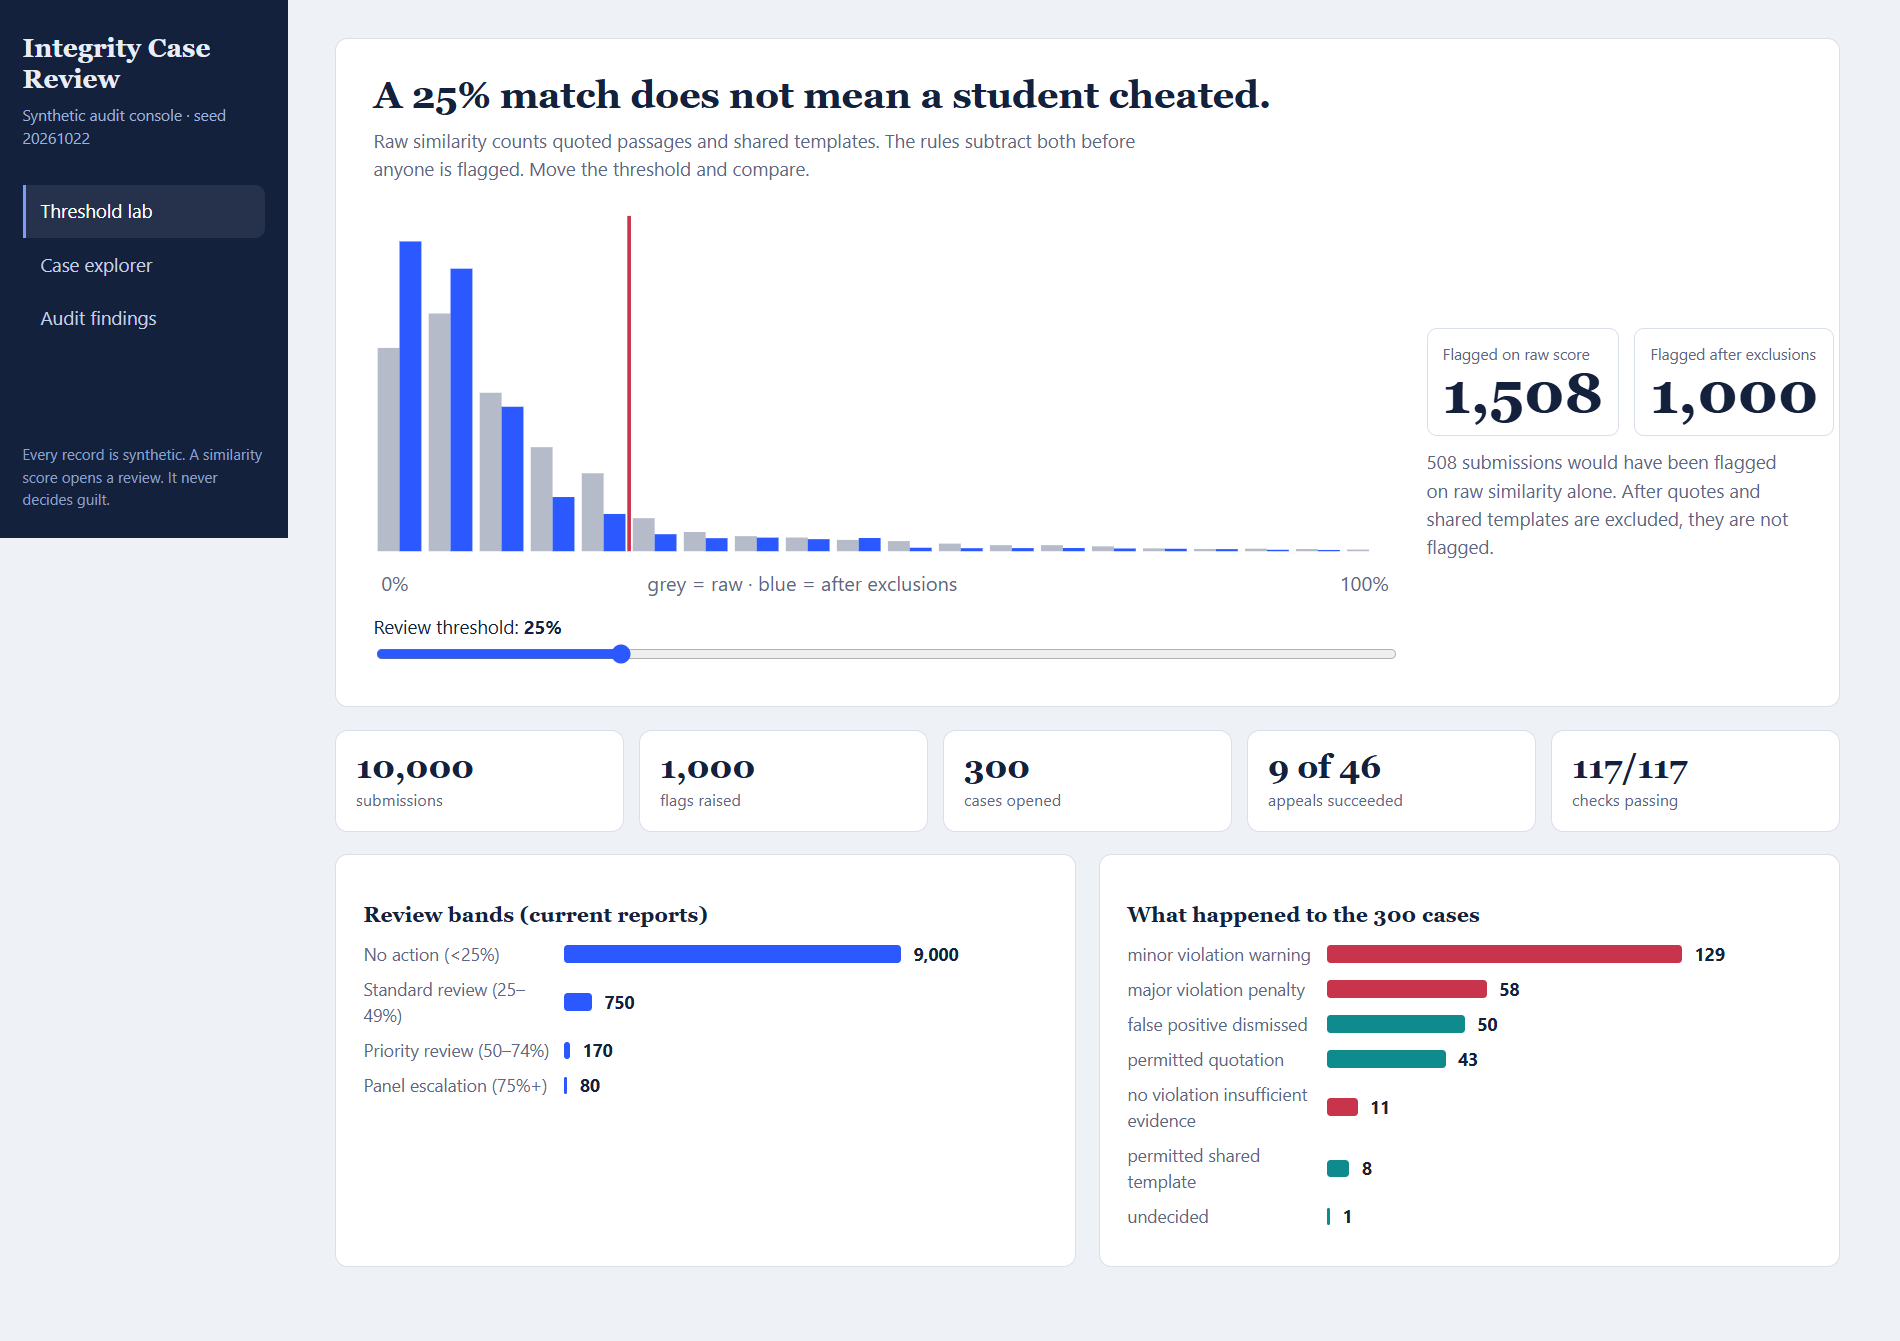
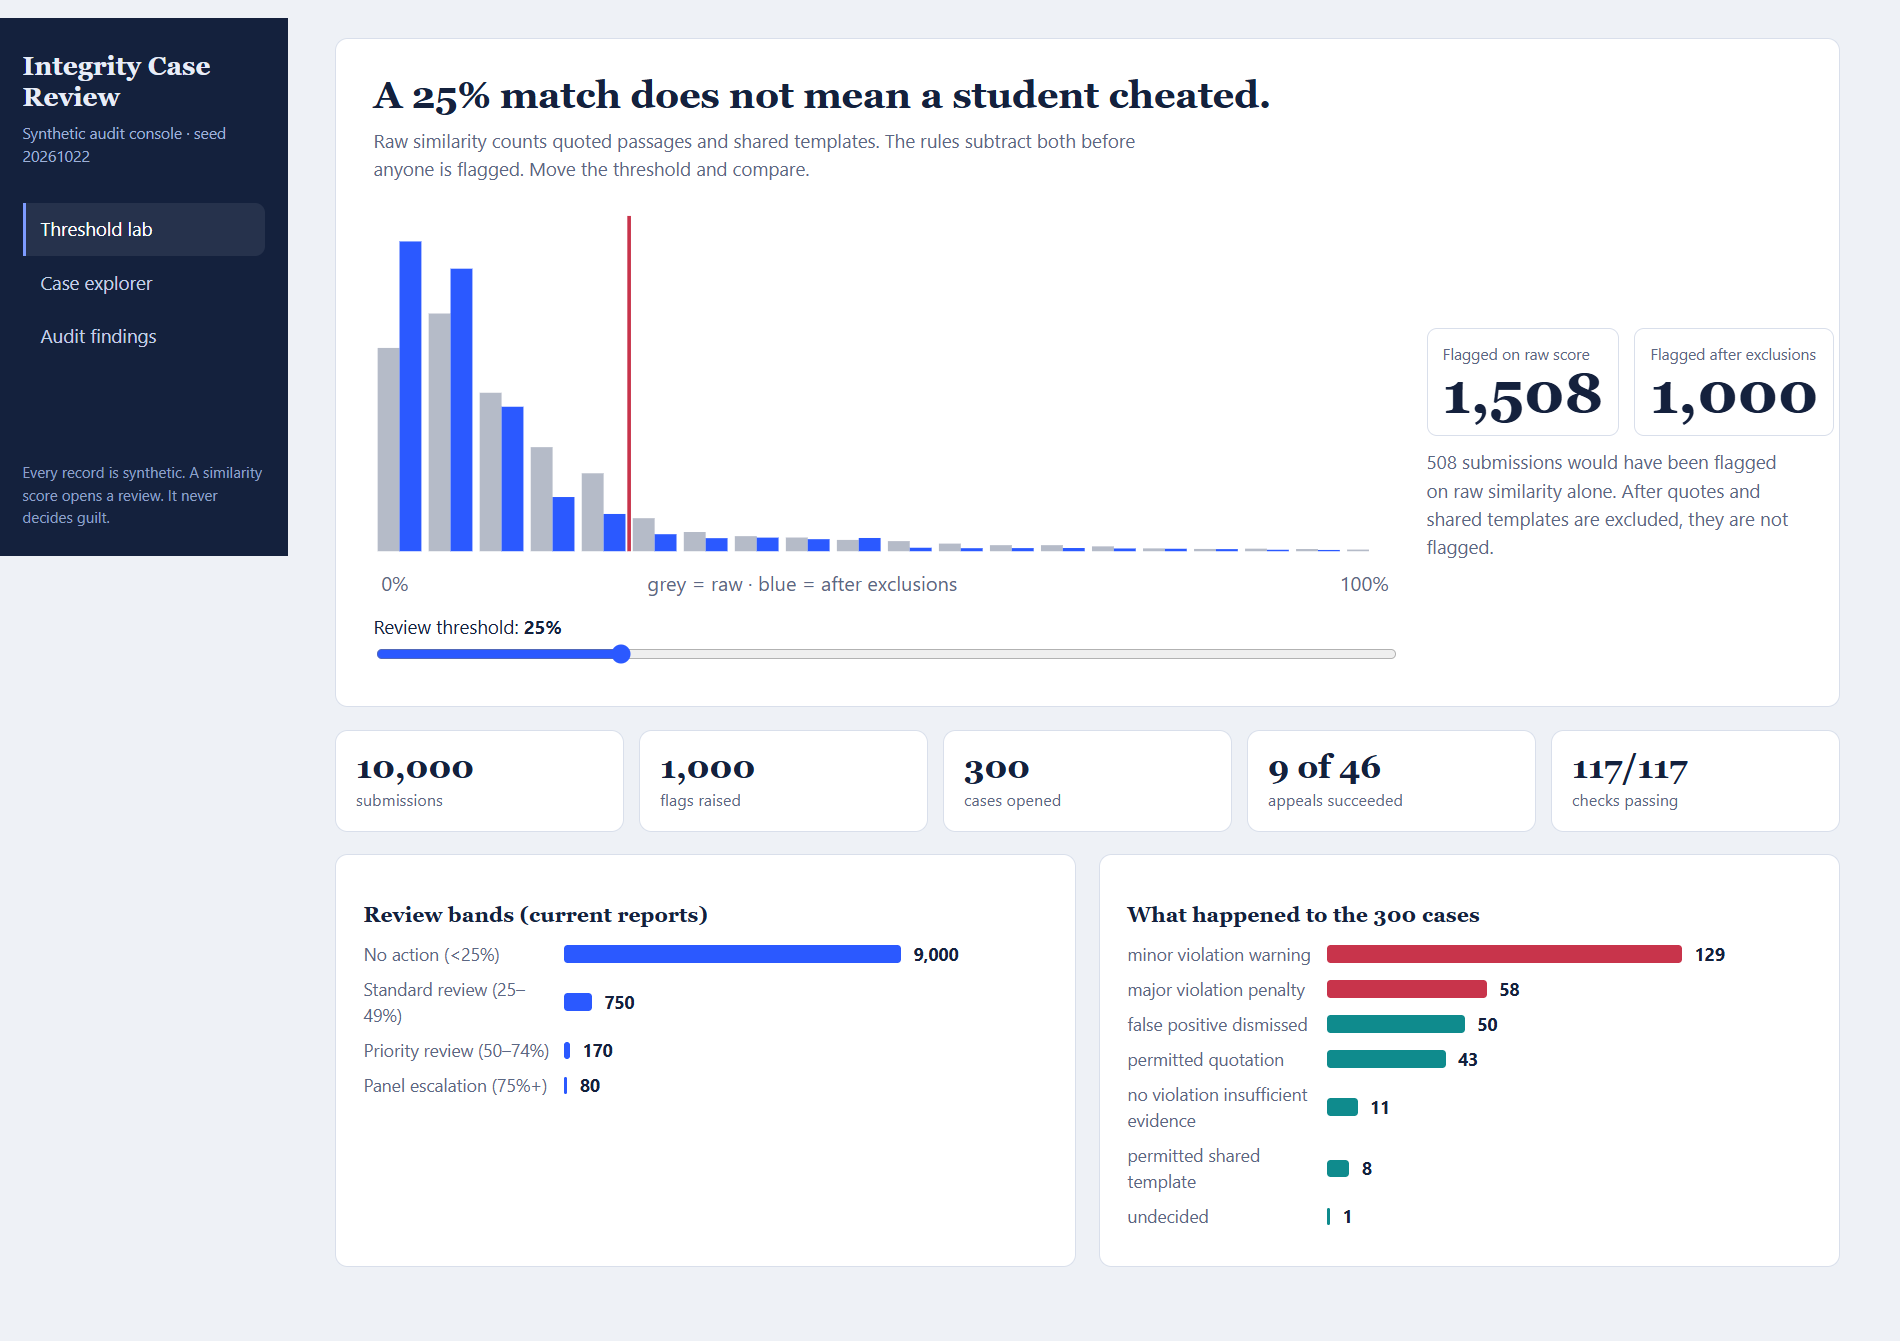
Fix dashboard: cleared cases were styled as violations; refresh screenshots

diff --git a/dashboard/index.html b/dashboard/index.html
@@ -610,7 +610,7 @@
           $("#outs").append(
             E(
               "div",
-              `<span>${nice(k)}</span><i style="width:${v * 2.2}px;background:${/violation/.test(k) ? "var(--rose)" : "var(--teal)"}"></i><b>${v}</b>`,
+              `<span>${nice(k)}</span><i style="width:${v * 2.2}px;background:${/^(minor|major)_violation/.test(k) ? "var(--rose)" : "var(--teal)"}"></i><b>${v}</b>`,
               "bar",
             ),
           ),
@@ -662,7 +662,7 @@
           (f) =>
             (h += `<div class="find"><b>Audit finding:</b> ${nice(f)}. Raised by the validator from the data alone.</div>`),
         );
-        h += `<span class="pill ${/violation/.test(c.outcome) ? "bad" : "ok"}">${nice(c.outcome || "undecided")}</span><span class="pill">${nice(c.status)}</span>${c.sla ? '<span class="pill warn">SLA breached</span>' : ""}`;
+        h += `<span class="pill ${/^(minor|major)_violation/.test(c.outcome) ? "bad" : "ok"}">${nice(c.outcome || "undecided")}</span><span class="pill">${nice(c.status)}</span>${c.sla ? '<span class="pill warn">SLA breached</span>' : ""}`;
         c.dec.forEach(
           (d) =>
             (h += `<h3>${d[0] === "initial" ? "Decision" : "Appeal decision"}</h3><p style="margin:0">${esc(d[2])}</p><small style="color:var(--mute)">${d[3].slice(0, 16).replace("T", " ")} · basis: ${nice(d[4])}</small>`),

diff --git a/dashboard/template.html b/dashboard/template.html
@@ -610,7 +610,7 @@
           $("#outs").append(
             E(
               "div",
-              `<span>${nice(k)}</span><i style="width:${v * 2.2}px;background:${/violation/.test(k) ? "var(--rose)" : "var(--teal)"}"></i><b>${v}</b>`,
+              `<span>${nice(k)}</span><i style="width:${v * 2.2}px;background:${/^(minor|major)_violation/.test(k) ? "var(--rose)" : "var(--teal)"}"></i><b>${v}</b>`,
               "bar",
             ),
           ),
@@ -662,7 +662,7 @@
           (f) =>
             (h += `<div class="find"><b>Audit finding:</b> ${nice(f)}. Raised by the validator from the data alone.</div>`),
         );
-        h += `<span class="pill ${/violation/.test(c.outcome) ? "bad" : "ok"}">${nice(c.outcome || "undecided")}</span><span class="pill">${nice(c.status)}</span>${c.sla ? '<span class="pill warn">SLA breached</span>' : ""}`;
+        h += `<span class="pill ${/^(minor|major)_violation/.test(c.outcome) ? "bad" : "ok"}">${nice(c.outcome || "undecided")}</span><span class="pill">${nice(c.status)}</span>${c.sla ? '<span class="pill warn">SLA breached</span>' : ""}`;
         c.dec.forEach(
           (d) =>
             (h += `<h3>${d[0] === "initial" ? "Decision" : "Appeal decision"}</h3><p style="margin:0">${esc(d[2])}</p><small style="color:var(--mute)">${d[3].slice(0, 16).replace("T", " ")} · basis: ${nice(d[4])}</small>`),
